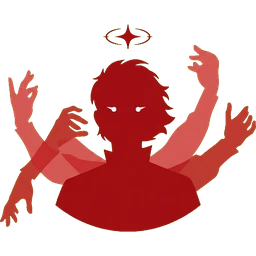
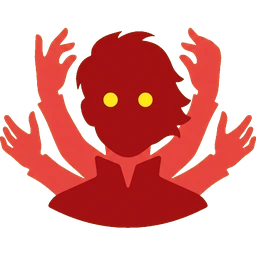
Navbar: bolder agent mark and high-contrast serif name artwork

diff --git a/components/Navbar.css b/components/Navbar.css
@@ -38,9 +38,9 @@
 /* Brand type + logo */
 .nav__logo { display: block; width: 24px; height: 32px; }
 .nav__brand { color: #b0121a; }
-.nav__logo { width: 44px; height: 44px; object-fit: contain; }
-.nav__name { font-family: "Italiana", serif; font-weight: 400; font-size: 27px; letter-spacing: .04em; text-transform: uppercase; color: #b0121a; line-height: 1; white-space: nowrap; }
-@media (max-width: 480px) { .nav__logo { width: 36px; height: 36px; } .nav__name { font-size: 21px; } }
+.nav__logo { width: 50px; height: 50px; object-fit: contain; }
+.nav__name { display: block; width: auto; height: 44px; }
+@media (max-width: 480px) { .nav__logo { width: 40px; height: 40px; } .nav__name { height: 36px; } }
 .nav__links a, .nav__menu a:not(.btn) { font-family: "Cinzel", serif; font-weight: 600; letter-spacing: .06em; }
 .nav__links a:not(.btn) { color: #b0121a; }
 .nav__burger { color: #b0121a; }

diff --git a/components/Navbar.tsx b/components/Navbar.tsx
@@ -9,7 +9,7 @@ export default function Navbar() {
       <div className="wrap nav__row">
         <a className="nav__brand" href={`${home}#top`}>
           <img className="nav__logo" src={asset("/art/agent-mark.webp")} alt="" width={256} height={256} aria-hidden="true" />
-          <span className="nav__name">Neovarch Agent</span>
+          <img className="nav__name" src={asset("/art/name.webp")} alt="Neovarch Agent" width={560} height={289} />
         </a>
         <nav className="nav__links" aria-label="Navigasi utama">
           <a href={`${home}#fitur`}>Fitur</a>

diff --git a/app/layout.tsx b/app/layout.tsx
@@ -3,7 +3,6 @@ import { IBM_Plex_Sans, Instrument_Serif, JetBrains_Mono } from "next/font/googl
 import { asset } from "@/lib/site";
 import "@fontsource/cinzel-decorative/700.css";
 import "@fontsource/cinzel/600.css";
-import "@fontsource/italiana/400.css";
 import "./globals.css";
 
 // Condensed display serif for titles.
